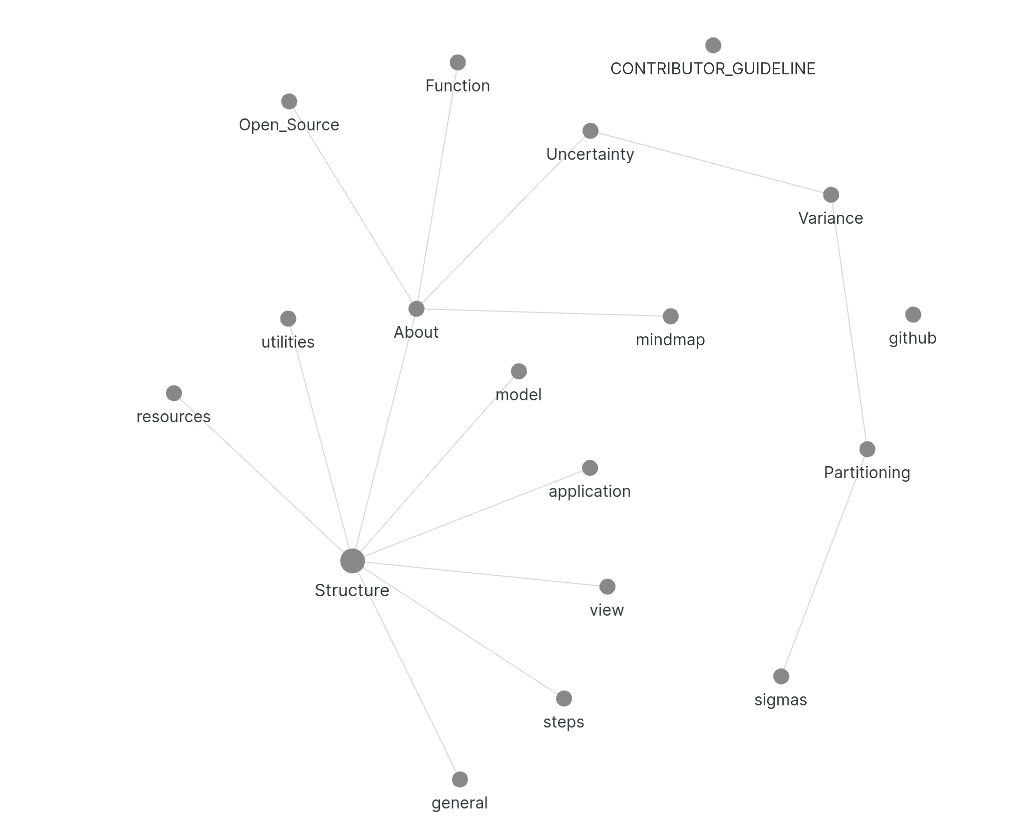
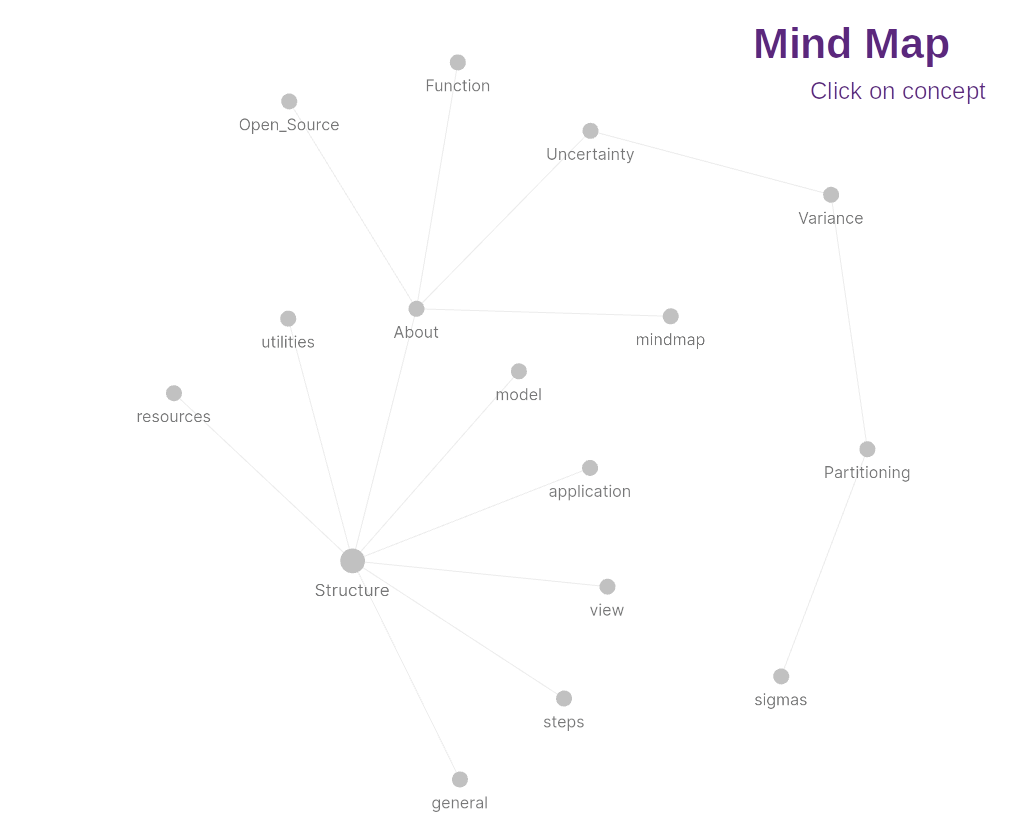
add Test

diff --git a/vault/Test.md b/vault/Test.md
@@ -1,0 +1,39 @@
+<div>
+<img src="https://g-string-legacy.github.io/web/img/map.png" alt="MindMap" usemap="#mindmap">
+
+<map name="mindmap">
+
+<area shape = "circle" coords = "414,308,500" alt="About" href="About.md">
+
+<area shape = "circle" coords = "290, 100, 500" alt = "About" href="Open_Source.md">
+
+<area shape = "circle" coords = " 459 62, 40" alt = "About" href = "[ ](Function.md)">
+
+<area shape = "circle" coords = " 590, 130, 40" alt = "About" href = "[ ](Uncertainty.md)">
+
+<area shape = "circle" coords = " 832, 195, 40" alt = "About" href = "[ ](Variance.md)">
+
+<area shape = "circle" coords = " 288, 316, 40" alt = "About" href = "[ ](utilities.md)">
+
+<area shape = "circle" coords = " 670, 315, 40" alt = "About" href = "[ ](mindmap.md)">
+
+<area shape = "circle" coords = " 175, 390, 40" alt = "About" href = "[ ](resources.md)">
+
+<area shape = "circle" coords = " 520, 372, 40" alt = "About" href = "[ ](model.md)">
+
+<area shape = "circle" coords = " 354, 559, 40" alt = "About" href = "[ ](Structure.md)">
+
+<area shape = "circle" coords = " 589, 468, 40" alt = "About" href = "[ ](https://github.com/G-String-Legacy/G_String/blob/main/vault/application.md)">
+
+<area shape = "circle" coords = " 865, 447, 40" alt = "About" href = "[ ](https://github.com/G-String-Legacy/G_String/blob/main/vault/Partitioning.md)">
+
+<area shape = "circle" coords = " 606, 583, 40" alt = "About" href = "[ ](https://github.com/G-String-Legacy/G_String/blob/main/vault/view.md)">
+
+<area shape = "circle" coords = " 563, 700, 40" alt = "About" href = "[ ](https://github.com/G-String-Legacy/G_String/blob/main/vault/steps.md)">
+
+<area shape = "circle" coords = " 780, 677, 40" alt = "About" href = "[ ](https://github.com/G-String-Legacy/G_String/blob/main/vault/sigmas.md)">
+
+<area shape = "circle" coords = " 460, 780, 40" alt = "About" href = "[https://github.com/G-String-Legacy/G_String/blob/main/vault/general.md](https://github.com/G-String-Legacy/G_String/blob/main/vault/general.md)">
+
+</map>
+</div>
